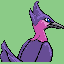
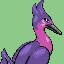
Toxatrice F sprites

Changed region(s): [[0.0, 0.0, 1.0, 1.0]]

diff --git a/src/data/graphics/pokemon.h b/src/data/graphics/pokemon.h
@@ -10929,10 +10929,13 @@ const u8 gMonFootprint_QuestionMark[] = INCBIN_U8("graphics/pokemon/question_mar
     const u8 gMonFootprint_Toxatoo[] = INCBIN_U8("graphics/pokemon/toxatoo/footprint.1bpp");
 
     const u32 gMonFrontPic_Toxatrice[] = INCBIN_U32("graphics/pokemon/toxatrice/anim_front.4bpp.lz");
+    const u32 gMonFrontPic_ToxatriceF[] = INCBIN_U32("graphics/pokemon/toxatrice/anim_front_f.4bpp.lz");
     const u32 gMonPalette_Toxatrice[] = INCBIN_U32("graphics/pokemon/toxatrice/normal.gbapal.lz");
     const u32 gMonBackPic_Toxatrice[] = INCBIN_U32("graphics/pokemon/toxatrice/back.4bpp.lz");
+    const u32 gMonBackPic_ToxatriceF[] = INCBIN_U32("graphics/pokemon/toxatrice/back_f.4bpp.lz");
     const u32 gMonShinyPalette_Toxatrice[] = INCBIN_U32("graphics/pokemon/toxatrice/shiny.gbapal.lz");
     const u8 gMonIcon_Toxatrice[] = INCBIN_U8("graphics/pokemon/toxatrice/icon.4bpp");
+    const u8 gMonIcon_ToxatriceF[] = INCBIN_U8("graphics/pokemon/toxatrice/icon_f.4bpp");
     const u8 gMonFootprint_Toxatrice[] = INCBIN_U8("graphics/pokemon/toxatrice/footprint.1bpp");
 #endif //P_FAMILY_TOXATIEL
 

diff --git a/src/data/pokemon/species_info/custom.h b/src/data/pokemon/species_info/custom.h
@@ -135,14 +135,17 @@ const struct SpeciesInfo gSpeciesInfoGen2[] =
         .trainerScale = 256,
         .trainerOffset = 0,
         FRONT_PIC(Toxatrice, 64, 64),
+        FRONT_PIC_FEMALE(Toxatrice, 64, 64),
         .frontPicYOffset = 0,
         .frontAnimFrames = sAnims_Toxatrice,
         .frontAnimId = ANIM_V_STRETCH,
         BACK_PIC(Toxatrice, 64, 64),
+        BACK_PIC_FEMALE(Toxatrice, 64, 64),
         .backPicYOffset = 2,
         .backAnimId = BACK_ANIM_JOLT_RIGHT,
         PALETTES(Toxatrice),
         ICON(Toxatrice, 2),
+        ICON_FEMALE(Toxatrice, 2),
         .footprint = gMonFootprint_Toxatrice,
         LEARNSETS(Toxatrice),
     },
